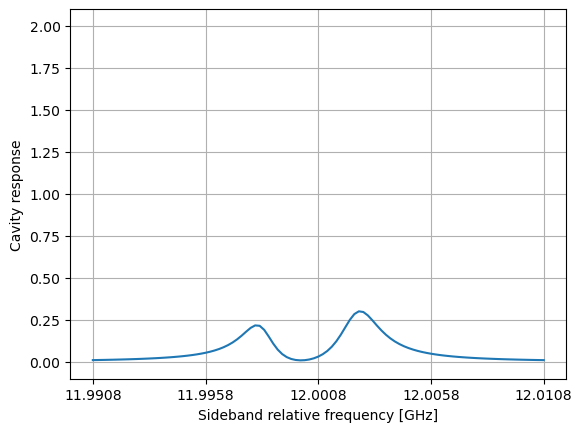
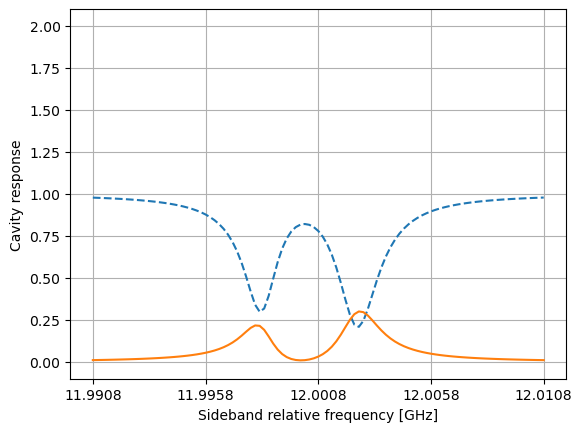
master equation solutions

diff --git a/me_optomech_base.py b/me_optomech_base.py
@@ -48,12 +48,12 @@ def reflectivity_ss_sideband(omega_in1_s, kappa_ext1_s, omega_s, kappa_s, omega_
     reflectivity: (float or np.ndarray)
         reflectivity of the stokes field of the cavity
     """
-    alpha_in1_s = 1
+    alpha_in1_s = np.sqrt(kappa_ext1_s)
     alpha_out1_s = np.zeros_like(omega_in1_s, np.complex128)
     for i,o_in in enumerate(omega_in1_s):
         alpha_out1_s[i] = alpha_in1_s - np.sqrt(kappa_ext1_s) * get_steady_state_field_optomechanical_cavity(omega_s-o_in, kappa_ext1_s, kappa_s, alpha_in1_s, alpha_p, G_0, 
-                                                                                                             Omega_m-(1 if is_sideband_stokes else -1)*(omega_p-o_in), gamma_m,
-                                                                                                             is_sideband_stokes, N=N, Nm=N_m)
+                                                                                                             (omega_p-o_in)-(1 if is_sideband_stokes else -1)*Omega_m, gamma_m,
+                                                                                                             is_sideband_stokes, N=N, N_m=N_m, calculate_time_evolution=True)
 
     return np.abs(alpha_out1_s/alpha_in1_s) ** 2
 
@@ -101,12 +101,12 @@ def transmittivity_ss_sideband(omega_in1_s, kappa_ext1_s, kappa_ext2_s, omega_s,
     transmissivity: (float or np.ndarray)
         transmissivity of the stokes field of the cavity
     """
-    alpha_in1_s = 1
+    alpha_in1_s = np.sqrt(kappa_ext1_s)
     alpha_out1_s = np.zeros_like(omega_in1_s, np.complex128)
     for i,o_in in enumerate(omega_in1_s):
         alpha_out1_s[i] = np.sqrt(kappa_ext2_s) * get_steady_state_field_optomechanical_cavity(omega_s-o_in, kappa_ext1_s, kappa_s, alpha_in1_s, alpha_p, G_0, 
-                                                                                               Omega_m-(1 if is_sideband_stokes else -1)*(omega_p-o_in), gamma_m,
-                                                                                               is_sideband_stokes, N=N, N_m=N_m)
+                                                                                               (omega_p-o_in)-(1 if is_sideband_stokes else -1)*Omega_m, gamma_m,
+                                                                                               is_sideband_stokes, N=N, N_m=N_m, calculate_time_evolution=True)
 
     return np.abs(alpha_out1_s/alpha_in1_s) ** 2
 
@@ -118,8 +118,8 @@ def get_steady_state_field_optomechanical_cavity(delta_s, kappa_ext1_s, kappa_s,
 
     if kappa_ext1_s > kappa_s:
         raise ValueError("The external coupling rate must be smaller than the total cavity decay rate.")
-    if abs(alpha_in1_s)**2 > N/2 or abs(alpha_in1_s)**2 > N_m/2:
-        print("Warning: The input field is too large for the given Hilbert space dimension.")
+    if abs(alpha_in1_s)**2/kappa_s > N/2 or abs(alpha_in1_s)**2/kappa_s*G_0*abs(alpha_p)/gamma_m > N_m/2:
+        raise ValueError("Warning: The input field is too large for the given Hilbert space dimension.")
 
     # init fields
     a = tensor(destroy(N), qeye(N_m))
@@ -131,10 +131,11 @@ def get_steady_state_field_optomechanical_cavity(delta_s, kappa_ext1_s, kappa_s,
     # and for the mechanical mode, to the difference between sideband and mechanical frequency
     # delta_s = omega-omega_in1
     # delta_m = omega_m - (1 if is_sideband_stokes else -1)*(omega_p-omega_in1_s)
+    print(delta_s, delta_m)
     free_evolution = delta_s*num_a + delta_m*num_b
     incoupling_fields = 1j*np.sqrt(kappa_ext1_s)*alpha_in1_s*(a.dag()-a)
     #interaction = GO*abs(alpha_p)*(a.dag()+a)*(b.dag()+b)
-    interaction = G_0*abs(alpha_p)*(a.dag()*b.dag() + a*b if is_sideband_stokes else a.dag()*b + a*b.dag())
+    interaction = -G_0*abs(alpha_p)*(a.dag()*b.dag() + a*b if is_sideband_stokes else a.dag()*b + a*b.dag())
     decay_channel_a = np.sqrt(kappa_s)*a
     decay_channel_b = np.sqrt(gamma_m)*b
 
@@ -143,17 +144,26 @@ def get_steady_state_field_optomechanical_cavity(delta_s, kappa_ext1_s, kappa_s,
 
     if calculate_time_evolution:
         # time evolution, the time array length considers the decay rate of the cavity to know when we reach the staedy state
-        t = np.linspace(0, max(12/kappa_s,15/gamma_m), 1200)
+        t = np.linspace(0, max(15/kappa_s,15/gamma_m), 1200)
         # init vacuum state
-        rho_0 = tensor(basis(N,0),basis(N_m,0))
+        rho_0 = tensor(coherent(N,2e-4),coherent(N_m,5e-4))
         # solve time evolution with master equation
         result = mesolve(Hamiltonian, rho_0, t, collapse_operators, [a,num_a,b,num_b])
         a_me, num_a_me, b_me, num_b_me = result.expect
-        if True:
+        if False:
+            result_mc = mcsolve(Hamiltonian, rho_0, t, collapse_operators, [a,num_a,b,num_b], ntraj=10)
+            a_mc, num_a_mc, b_mc, num_b_mc = result_mc.expect
+            #rho_ss = steadystate(Hamiltonian, collapse_operators)
+            #num_a_ss = expect(num_a, rho_ss)
+            #num_b_ss = expect(num_b, rho_ss)
             # You have to check that the time evolution is converging to the steady state
             import matplotlib.pyplot as plt
             plt.plot(t, num_a_me)
             plt.plot(t, num_b_me)
+            plt.plot(t, num_a_mc)
+            plt.plot(t, num_b_mc)
+            #plt.plot(t, [num_a_ss]*len(t))
+            #plt.plot(t, [num_b_ss]*len(t))
             plt.show()
         a_ss = np.mean(a_me[-10:])
         num_a_ss = np.mean(num_a_me[-10:])
@@ -175,23 +185,25 @@ if __name__=="__main__":
     def get_axis_values(values, n=5):
         return np.linspace(min(values), max(values), n), ["%.4f"%(i/1e9) for i in np.linspace(min(values), max(values), n)]
     # Test the analytical model
-    is_sideband_stokes = True
+    is_sideband_stokes = False
     lambda_to_omega = lambda l: 2 * np.pi * 3e8 / l
     kappa_ext1_s = 1e6
     kappa_ext2_s = 1e6
     kappa_s = kappa_ext1_s + kappa_ext2_s + 1e6
     omega_p = lambda_to_omega(1550e-9)
     omega_s = omega_p + (-1 if is_sideband_stokes else 1) * 12.0008e9 #+ np.linspace(-8e6, 8e6, 10).reshape(-1,1)
-    omega_in1_s = omega_s + np.linspace(-1e6, 1e6, 21)
+    omega_in1_s = omega_s + np.linspace(-1e7, 1e7, 101)
     alpha_p = 7e3*(1 if is_sideband_stokes else 3) #* np.linspace(0,1.2,6).reshape(-1,1)
     G_0 = 100
     Omega_m = 12e9
     gamma_m = 1e6
 
-    #r=reflectivity_ss_sideband(omega_in1_s, kappa_ext1_s, omega_s, kappa_s, omega_p, alpha_p, G_0, Omega_m, gamma_m, is_sideband_stokes)
-    t=transmittivity_ss_sideband(omega_in1_s, kappa_ext1_s, kappa_ext2_s, omega_s, kappa_s, omega_p, alpha_p, G_0, Omega_m, gamma_m, is_sideband_stokes, N=10, N_m=10)
+    r=reflectivity_ss_sideband(omega_in1_s, kappa_ext1_s, omega_s, kappa_s, omega_p, alpha_p, G_0, Omega_m, gamma_m, 
+                               is_sideband_stokes, N=5, N_m=5)
+    t=transmittivity_ss_sideband(omega_in1_s, kappa_ext1_s, kappa_ext2_s, omega_s, kappa_s, omega_p, alpha_p, G_0, Omega_m, gamma_m, 
+                                 is_sideband_stokes, N=5, N_m=5)
 
-    #plt.plot(omega_in1_s.T-omega_p, r.T, "--",label='Reflectivity')
+    plt.plot(omega_in1_s.T-omega_p, r.T, "--",label='Reflectivity')
     plt.plot(omega_in1_s.T-omega_p, t.T, label='Transmissivity')
     plt.ylim(-0.1,2.1)
     plt.xticks(*get_axis_values(omega_in1_s.T-omega_p))

diff --git a/me_optical_cavity.py b/me_optical_cavity.py
@@ -45,10 +45,11 @@ def reflectivity_ss_optical_cavity(omega, omega_in1, kappa, kappa_ext1, N=10):
     R : float or np.ndarray
         The reflectivity of the cavity.
     """
-    alpha_in1 = 1
+    alpha_in1 = np.sqrt(kappa_ext1)
     alpha_out1 = np.zeros_like(omega_in1, np.complex128)
     for i,o_in in enumerate(omega_in1):
-        alpha_out1[i] = alpha_in1 - np.sqrt(kappa_ext1) * get_steady_state_field_optical_cavity(omega, o_in, kappa, kappa_ext1, alpha_in1, N=N)
+        alpha_out1[i] = alpha_in1 - np.sqrt(kappa_ext1) * get_steady_state_field_optical_cavity(omega, o_in, kappa, kappa_ext1, alpha_in1, N=N,
+                                                                                                calculate_time_evolution=True)
     
     return np.abs(alpha_out1/alpha_in1) ** 2
 
@@ -84,16 +85,17 @@ def transmissivity_ss_optical_cavity(omega, omega_in1, kappa, kappa_ext1, kappa_
     T : float or np.ndarray
         The transmissivity of the cavity.
     """    
-    alpha_in1 = 1
+    alpha_in1 = np.sqrt(kappa_ext1)
     alpha_out2 = np.zeros_like(omega_in1, np.complex128)
     for i,o_in in enumerate(omega_in1):
-        alpha_out2[i] = np.sqrt(kappa_ext2) * get_steady_state_field_optical_cavity(omega, o_in, kappa, kappa_ext1, alpha_in1, N=N)
+        alpha_out2[i] = np.sqrt(kappa_ext2) * get_steady_state_field_optical_cavity(omega, o_in, kappa, kappa_ext1, alpha_in1, 
+                                                                                    N=N, calculate_time_evolution=False)
     
     return np.abs(alpha_out2/alpha_in1) ** 2
 
 
 def get_steady_state_field_optical_cavity(omega, omega_in1, kappa, kappa_ext1, alpha_in, 
-                                          N=10, calculate_time_evolution=False):
+                                          N=10, calculate_time_evolution=True):
     """
     Calculate the steady state solution cavity field for an optical cavity with a single standing wave given an input field alpha_in.
     The cavity is described by the Hamiltonian in the rotating wave approximation and the Landbladian collapse operators:
@@ -127,7 +129,7 @@ def get_steady_state_field_optical_cavity(omega, omega_in1, kappa, kappa_ext1, a
     """
     if kappa_ext1 > kappa:
         raise ValueError("The external coupling rate must be smaller than the total cavity decay rate.")
-    if abs(alpha_in)**2 > N/2:
+    if abs(alpha_in)**2/kappa > N/2:
         raise ValueError("Warning: The input field is too large for the given Hilbert space dimension.")
 
     # init fields
@@ -145,16 +147,19 @@ def get_steady_state_field_optical_cavity(omega, omega_in1, kappa, kappa_ext1, a
 
     if calculate_time_evolution:
         # time evolution, the time array length considers the decay rate of the cavity to know when we reach the staedy state
-        t = np.linspace(0, 12/kappa, 120)
+        t = np.linspace(0, 15/kappa, 120)
         # init vacuum state
         rho_0 = tensor(basis(N,0))
         # solve time evolution with master equation
         result = mesolve(Hamiltonian, rho_0, t, collapse_operators, [a,num_a])
         a_me, num_a_me = result.expect
         if False:
+            result_mc = mcsolve(Hamiltonian, rho_0, t, collapse_operators, [a,num_a], ntraj=5)
+            a_mc, num_a_mc = result_mc.expect
             # You have to check that the time evolution is converging to the steady state
             import matplotlib.pyplot as plt
             plt.plot(t, num_a_me)
+            plt.plot(t, num_a_mc)
             plt.show()
         a_ss = a_me[-1]
         num_a_ss = num_a_me[-1]
@@ -181,8 +186,8 @@ if __name__=="__main__":
     kappa = kappa_ext1 + kappa_ext2 + 1e6
     from time import time
     start = time()
-    r=reflectivity_ss_optical_cavity(omega, omega_in1, kappa, kappa_ext1)
-    t=transmissivity_ss_optical_cavity(omega, omega_in1, kappa, kappa_ext1, kappa_ext2)
+    r=reflectivity_ss_optical_cavity(omega, omega_in1, kappa, kappa_ext1, N=5)
+    t=transmissivity_ss_optical_cavity(omega, omega_in1, kappa, kappa_ext1, kappa_ext2, N=5)
     print(time()-start)
 
     plt.plot(omega_in1.T-omega, r.T, "--",label='Reflectivity')
